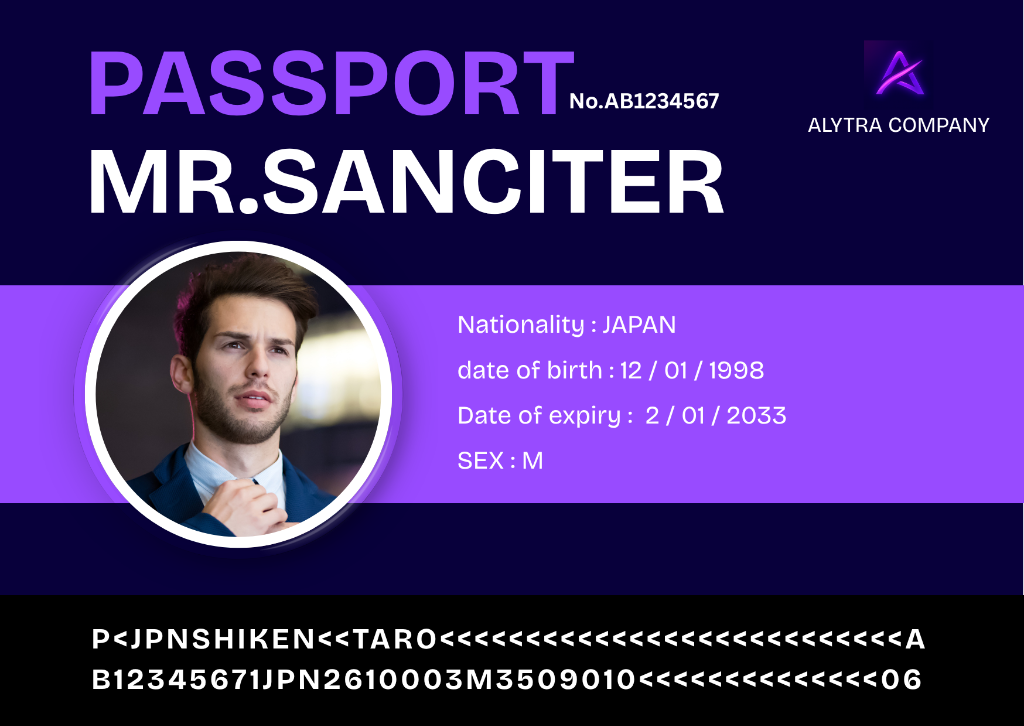
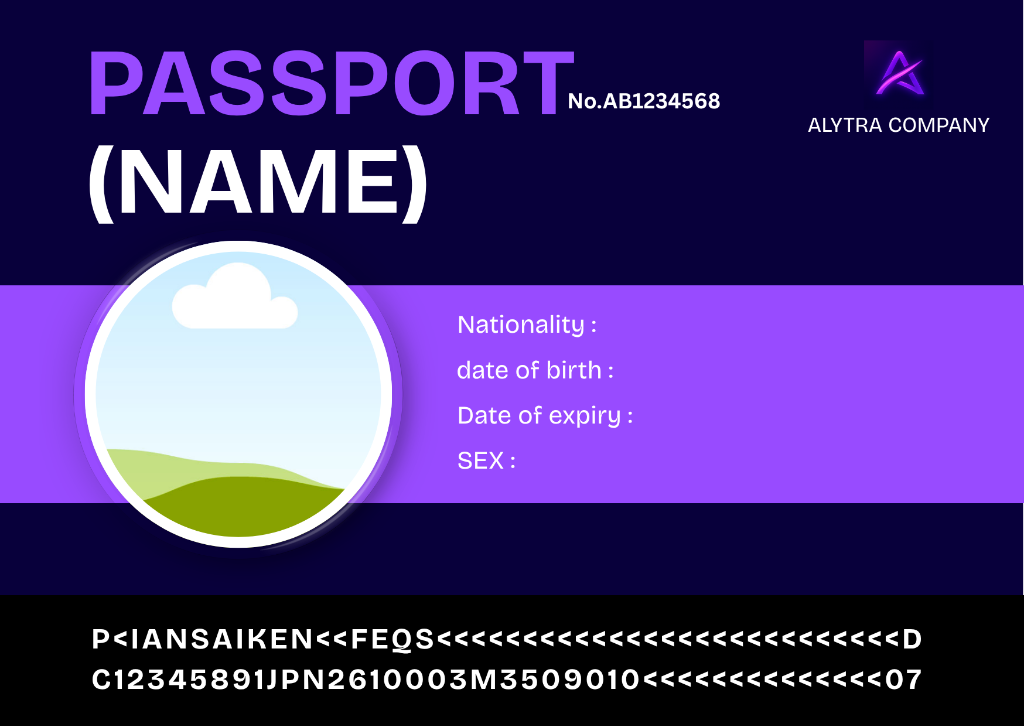
Use uploaded file preview dynamically via URL.createObjectURL in summary modal

diff --git a/1/index.html b/1/index.html
@@ -308,7 +308,7 @@
     </footer>
 
     <!-- JavaScript with Cache Buster (?v=3) -->
-    <script src="../Form Testing Exercise_ Find Validation Bugs _ Realbugz QA Practice_files/main.js.download?v=224"></script>
+    <script src="../Form Testing Exercise_ Find Validation Bugs _ Realbugz QA Practice_files/main.js.download?v=225"></script>
     
 
     <!-- Terms and Conditions Modal -->

diff --git a/index.html b/index.html
@@ -308,7 +308,7 @@
     </footer>
 
     <!-- JavaScript with Cache Buster (?v=3) -->
-    <script src="./Form Testing Exercise_ Find Validation Bugs _ Realbugz QA Practice_files/main.js.download?v=224"></script>
+    <script src="./Form Testing Exercise_ Find Validation Bugs _ Realbugz QA Practice_files/main.js.download?v=225"></script>
     
 
     <!-- Terms and Conditions Modal -->
